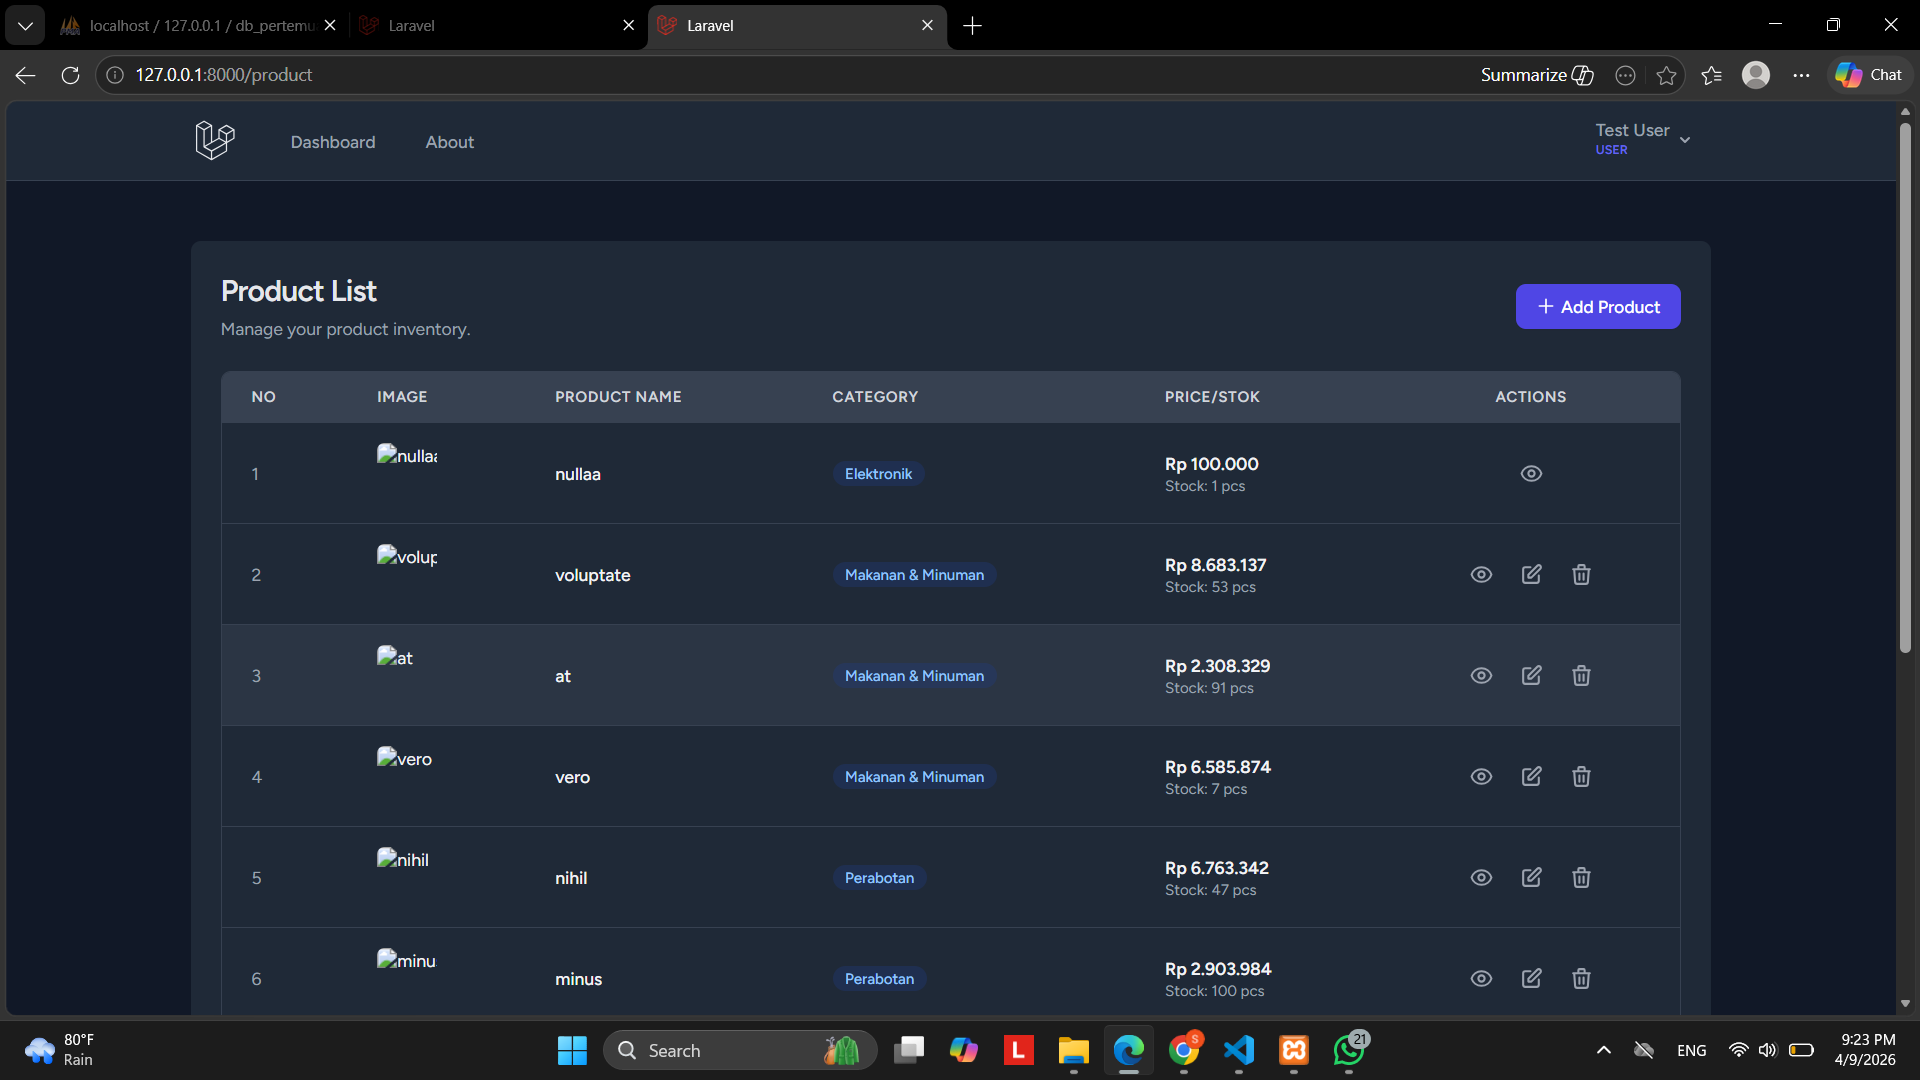
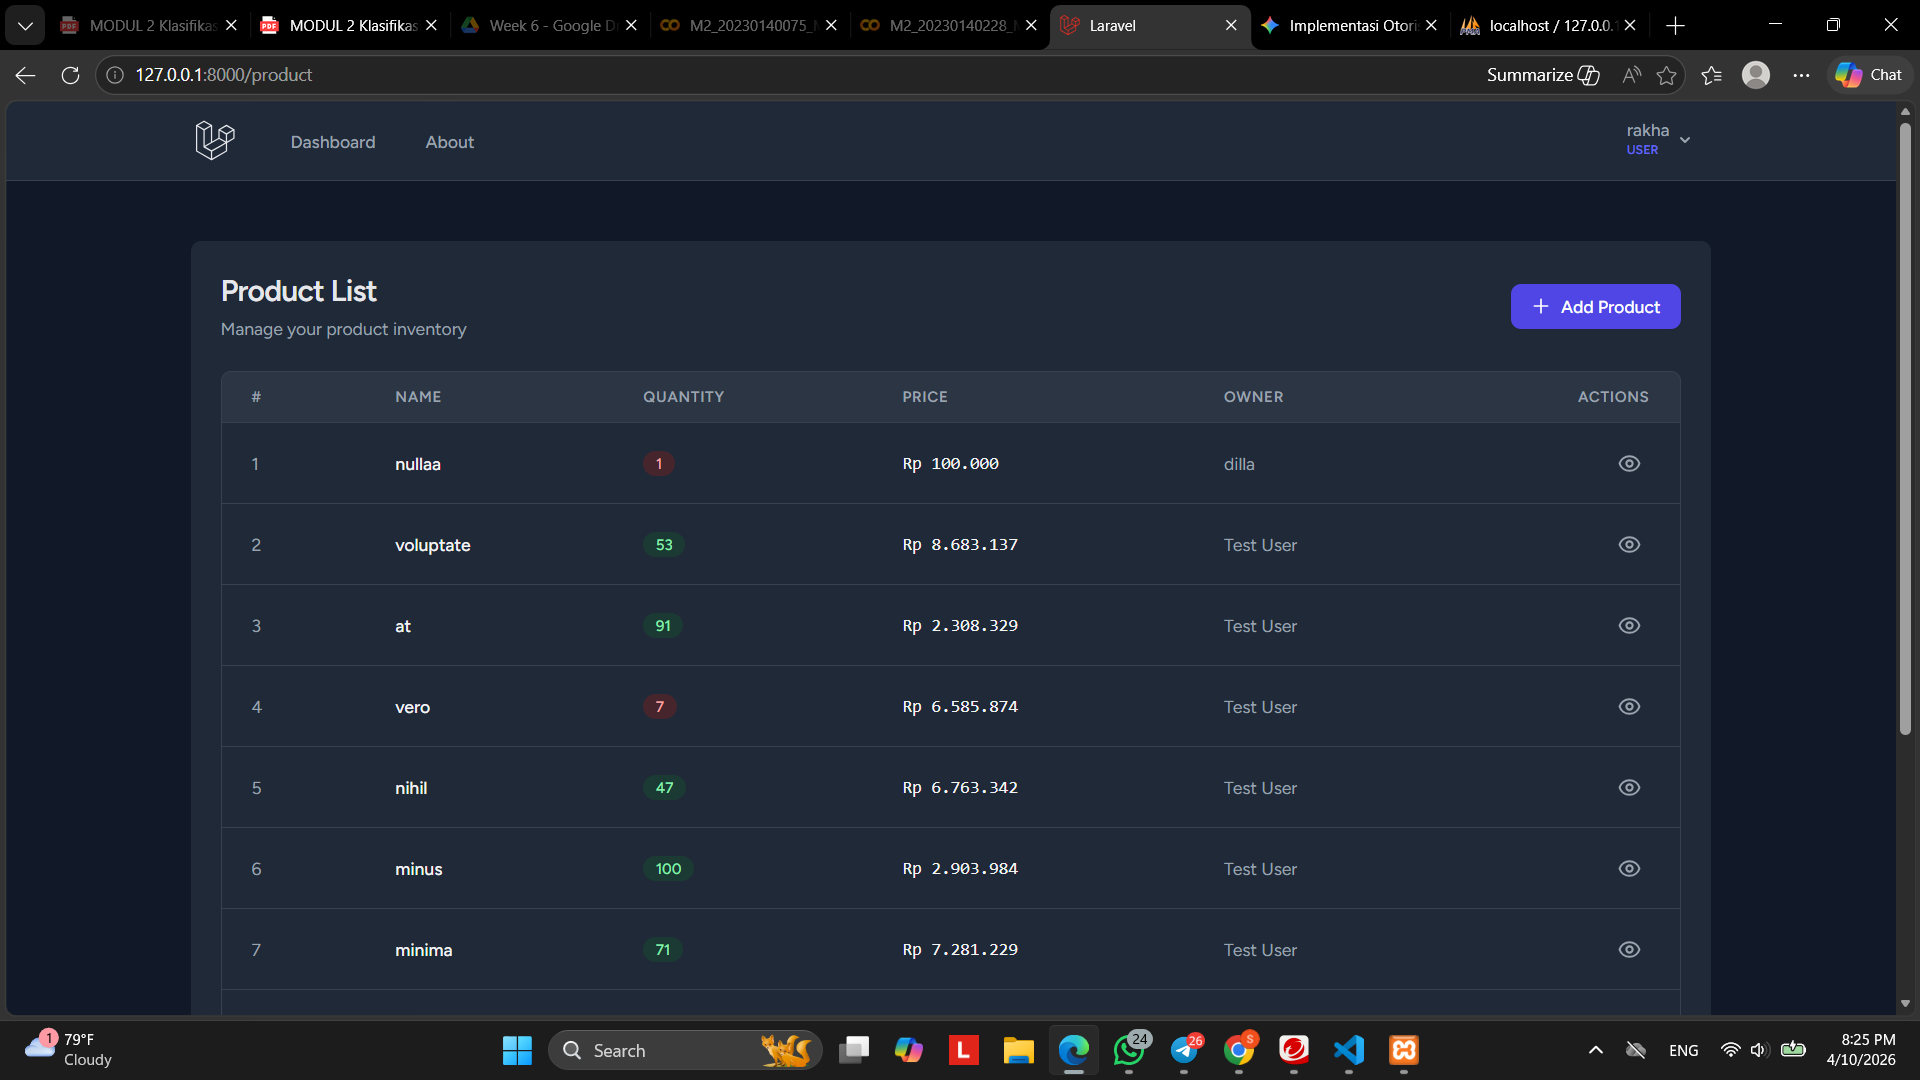
update

diff --git a/resources/views/product/index.blade.php b/resources/views/product/index.blade.php
@@ -4,23 +4,25 @@
             <div class="bg-white dark:bg-gray-800 overflow-hidden shadow-sm sm:rounded-lg">
                 <div class="p-6 text-gray-900 dark:text-gray-100">
 
+                    {{-- Header --}}
                     <div class="flex items-center justify-between mb-6">
                         <div>
                             <h2 class="text-2xl font-bold text-gray-800 dark:text-gray-200 tracking-tight">Product List</h2>
-                            <p class="text-sm text-gray-500 dark:text-gray-400 mt-1">Manage your product inventory.</p>
+                            <p class="text-sm text-gray-500 dark:text-gray-400 mt-1">Manage your product inventory</p>
                         </div>
                         
-                        <div class="flex gap-2">
+                        <div class="flex items-center gap-3">
+                            {{-- 1. GATE: Hanya muncul untuk Admin --}}
                             @can('export-product')
-                            <a href="#" class="inline-flex items-center gap-1 px-4 py-2 bg-green-600 hover:bg-green-700 text-white text-sm font-medium rounded-lg transition duration-150 shadow-sm">
-                                <svg xmlns="http://www.w3.org/2000/svg" class="h-4 w-4" fill="none" viewBox="0 0 24 24" stroke="currentColor">
-                                    <path stroke-linecap="round" stroke-linejoin="round" stroke-width="2" d="M4 16v1a3 3 0 003 3h10a3 3 0 003-3v-1m-4-4l-4 4m0 0l-4-4m4 4V4" />
-                                </svg>
-                                Export Excel
-                            </a>
+                                <a href="#" class="inline-flex items-center gap-2 px-4 py-2 bg-green-600 hover:bg-green-700 text-white text-sm font-medium rounded-lg transition duration-150 shadow-sm">
+                                    <svg xmlns="http://www.w3.org/2000/svg" class="h-4 w-4" fill="none" viewBox="0 0 24 24" stroke="currentColor">
+                                        <path stroke-linecap="round" stroke-linejoin="round" stroke-width="2" d="M12 10v6m0 0l-3-3m3 3l3-3m2 8H7a2 2 0 01-2-2V5a2 2 0 012-2h5.586a1 1 0 01.707.293l5.414 5.414a1 1 0 01.293.707V19a2 2 0 01-2 2z" />
+                                    </svg>
+                                    Export Excel
+                                </a>
                             @endcan
 
-                            <a href="{{ route('product.create') }}" class="inline-flex items-center gap-1 px-4 py-2 bg-indigo-600 hover:bg-indigo-700 text-white text-sm font-medium rounded-lg transition duration-150 shadow-sm">
+                            <a href="{{ route('product.create') }}" class="inline-flex items-center gap-2 px-4 py-2 bg-indigo-600 hover:bg-indigo-700 text-white text-sm font-medium rounded-lg transition duration-150 shadow-sm">
                                 <svg xmlns="http://www.w3.org/2000/svg" class="h-4 w-4" fill="none" viewBox="0 0 24 24" stroke="currentColor">
                                     <path stroke-linecap="round" stroke-linejoin="round" stroke-width="2" d="M12 4v16m8-8H4" />
                                 </svg>
@@ -29,59 +31,49 @@
                         </div>
                     </div>
 
+                    {{-- Flash Message --}}
                     @if (session('success'))
-                        <div class="mb-6 px-4 py-3 bg-green-500/10 border border-green-500/20 dark:border-green-500/20 text-green-700 dark:text-green-300 rounded-lg text-sm">
+                        <div class="mb-4 px-4 py-3 bg-green-500/10 border border-green-200 dark:border-green-700 text-green-700 dark:text-green-300 rounded-lg text-sm">
                             {{ session('success') }}
                         </div>
                     @endif
 
-                    <div class="overflow-x-auto rounded-lg border border-gray-200 dark:border-gray-700">
-                        <table class="w-full text-sm text-left divide-y divide-gray-200 dark:divide-gray-700">
-                            <thead class="bg-gray-50 dark:bg-gray-700">
+                    {{-- Table --}}
+                    <div class="overflow-hidden rounded-lg border border-gray-200 dark:border-gray-700">
+                        <table class="min-w-full divide-y divide-gray-200 dark:divide-gray-700 text-sm">
+                            <thead class="bg-gray-50 dark:bg-gray-700/50">
                                 <tr>
-                                    <th class="px-6 py-3 text-left text-xs font-semibold text-gray-500 dark:text-gray-300 uppercase tracking-wider">No</th>
-                                    <th class="px-6 py-3 text-left text-xs font-semibold text-gray-500 dark:text-gray-300 uppercase tracking-wider">Image</th>
-                                    <th class="px-6 py-3 text-left text-xs font-semibold text-gray-500 dark:text-gray-300 uppercase tracking-wider">Product Name</th>
-                                    <th class="px-6 py-3 text-left text-xs font-semibold text-gray-500 dark:text-gray-300 uppercase tracking-wider">Category</th>
-                                    <th class="px-6 py-3 text-left text-xs font-semibold text-gray-500 dark:text-gray-300 uppercase tracking-wider">Price/Stok</th>
-                                    <th class="px-6 py-3 text-center text-xs font-semibold text-gray-500 dark:text-gray-300 uppercase tracking-wider">Actions</th>
+                                    <th class="px-6 py-3 text-left text-xs font-semibold text-gray-500 dark:text-gray-400 uppercase tracking-wider">#</th>
+                                    <th class="px-6 py-3 text-left text-xs font-semibold text-gray-500 dark:text-gray-400 uppercase tracking-wider">Name</th>
+                                    <th class="px-6 py-3 text-left text-xs font-semibold text-gray-500 dark:text-gray-400 uppercase tracking-wider">Quantity</th>
+                                    <th class="px-6 py-3 text-left text-xs font-semibold text-gray-500 dark:text-gray-400 uppercase tracking-wider">Price</th>
+                                    <th class="px-6 py-3 text-left text-xs font-semibold text-gray-500 dark:text-gray-400 uppercase tracking-wider">Owner</th>
+                                    <th class="px-6 py-3 text-right text-xs font-semibold text-gray-500 dark:text-gray-400 uppercase tracking-wider">Actions</th>
                                 </tr>
                             </thead>
-
                             <tbody class="bg-white dark:bg-gray-800 divide-y divide-gray-200 dark:divide-gray-700">
                                 @forelse ($products as $product)
                                     <tr class="hover:bg-gray-50 dark:hover:bg-gray-700/50 transition duration-150">
-                                        <td class="px-6 py-4 whitespace-nowrap text-gray-500 dark:text-gray-400">
+                                        <td class="px-6 py-4 whitespace-nowrap text-gray-600 dark:text-gray-400">
                                             {{ $loop->iteration }}
                                         </td>
-
-                                        <td class="px-6 py-4 whitespace-nowrap">
-                                            <img src="{{ asset('storage/'.$product->image) }}" 
-                                                class="h-12 w-12 object-cover rounded-md" 
-                                                alt="{{ $product->name }}">
-                                        </td>
-
                                         <td class="px-6 py-4 whitespace-nowrap font-medium text-gray-900 dark:text-gray-100">
                                             {{ $product->name }}
                                         </td>
-
-                                        <td class="px-6 py-4 whitespace-nowrap">
-                                            <span class="inline-flex items-center px-2.5 py-0.5 rounded-full text-xs font-medium bg-blue-100 text-blue-800 dark:bg-blue-900/30 dark:text-blue-300">
-                                                {{ $product->category->name ?? '-' }}
+                                        <td class="px-6 py-4 whitespace-nowrap text-gray-600 dark:text-gray-400">
+                                            <span class="inline-flex items-center px-2.5 py-0.5 rounded-full text-xs font-medium {{ $product->quantity < 10 ? 'bg-red-100 text-red-700 dark:bg-red-900/40 dark:text-red-300' : 'bg-green-100 text-green-700 dark:bg-green-900/40 dark:text-green-300' }}">
+                                                {{ $product->quantity }}
                                             </span>
                                         </td>
-
-                                        <td class="px-6 py-4 whitespace-nowrap">
-                                            <div class="text-sm font-semibold text-gray-900 dark:text-gray-100">
-                                                Rp {{ number_format($product->price, 0, ',', '.') }}
-                                            </div>
-                                            <div class="text-xs text-gray-500 dark:text-gray-400">
-                                                Stock: {{ $product->quantity }} pcs
-                                            </div>
+                                        <td class="px-6 py-4 whitespace-nowrap text-gray-900 dark:text-gray-100 font-mono">
+                                            Rp {{ number_format($product->price, 0, ',', '.') }}
                                         </td>
-
-                                        <td class="px-6 py-4 whitespace-nowrap text-center">
-                                            <div class="flex items-center justify-center gap-2">
+                                        <td class="px-6 py-4 whitespace-nowrap text-gray-600 dark:text-gray-400">
+                                            {{ $product->user->name ?? '-' }}
+                                        </td>
+                                        <td class="px-6 py-4 whitespace-nowrap text-right">
+                                            <div class="flex items-center justify-end gap-2">
+                                                {{-- View selalu bisa dilihat --}}
                                                 <a href="{{ route('product.show', $product->id) }}" class="p-1.5 rounded-md text-gray-400 hover:text-indigo-600 hover:bg-indigo-50 dark:hover:bg-indigo-900/30 transition" title="View">
                                                     <svg xmlns="http://www.w3.org/2000/svg" class="h-5 w-5" fill="none" viewBox="0 0 24 24" stroke="currentColor">
                                                         <path stroke-linecap="round" stroke-linejoin="round" stroke-width="2" d="M15 12a3 3 0 11-6 0 3 3 0 016 0z" />
@@ -89,6 +81,7 @@
                                                     </svg>
                                                 </a>
 
+                                                {{-- 2. POLICY: Hanya muncul jika pemilik produk atau Admin --}}
                                                 @can('update', $product)
                                                 <a href="{{ route('product.edit', $product->id) }}" class="p-1.5 rounded-md text-gray-400 hover:text-amber-600 hover:bg-amber-50 dark:hover:bg-amber-900/30 transition" title="Edit">
                                                     <svg xmlns="http://www.w3.org/2000/svg" class="h-5 w-5" fill="none" viewBox="0 0 24 24" stroke="currentColor">
@@ -114,6 +107,9 @@
                                 @empty
                                     <tr>
                                         <td colspan="6" class="px-6 py-12 text-center text-gray-500 dark:text-gray-400">
+                                            <svg xmlns="http://www.w3.org/2000/svg" class="mx-auto h-12 w-12 text-gray-400 opacity-20 mb-4" fill="none" viewBox="0 0 24 24" stroke="currentColor">
+                                                <path stroke-linecap="round" stroke-linejoin="round" stroke-width="1.5" d="M20 13V6a2 2 0 00-2-2H6a2 2 0 00-2 2v7m16 0v5a2 2 0 01-2 2H6a2 2 0 01-2-2v-5m16 0h-2.586a1 1 0 00-.707.293l-2.414 2.414a1 1 0 01-.707.293h-3.172a1 1 0 01-.707-.293l-2.414-2.414A1 1 0 006.586 13H4" />
+                                            </svg>
                                             No products found.
                                         </td>
                                     </tr>
@@ -122,10 +118,13 @@
                         </table>
                     </div>
 
-                    <div class="mt-6">
-                        {{ $products->links() }}
-                    </div>
-
+                    {{-- Pagination --}}
+                    @if ($products->hasPages())
+                        <div class="mt-6">
+                            {{ $products->links() }}
+                        </div>
+                    @endif
+                    
                 </div>
             </div>
         </div>

diff --git a/README/Tugas5.md b/README/Tugas5.md
@@ -2,7 +2,7 @@
 ![alt text](<SS TUGAS/T5.LOGIN ADMIN.png>)
 
 2. Halaman Index Product (Gate) menu "Product" muncul di navbar dan tombol "Export Excel" terlihat
-![alt text](<SS TUGAS/T5. GATE EXPORT  EXCEL.png>)
+![alt text](<SS TUGAS/T5.GATE EXPORT EXCEL.png>)
 
 3. pada tabel produk, tombol "Hapus" muncul di semua baris produk
 ![alt text](<SS TUGAS/T5.Tombol hapus muncul semua.png>)
@@ -15,6 +15,7 @@
 
 6. Tombol export,update, dan delete tidak muncul jika bukan admin
 ![alt text](<SS TUGAS/T5.Tombol export,update, dan delete tidak muncul jika bukan admin.png>)
+ 
 
 7. Implementasi ProductPolicy pada Role User
 ![alt text](<SS TUGAS/T5.Implementasi ProductPolicy pada Role User.png>)